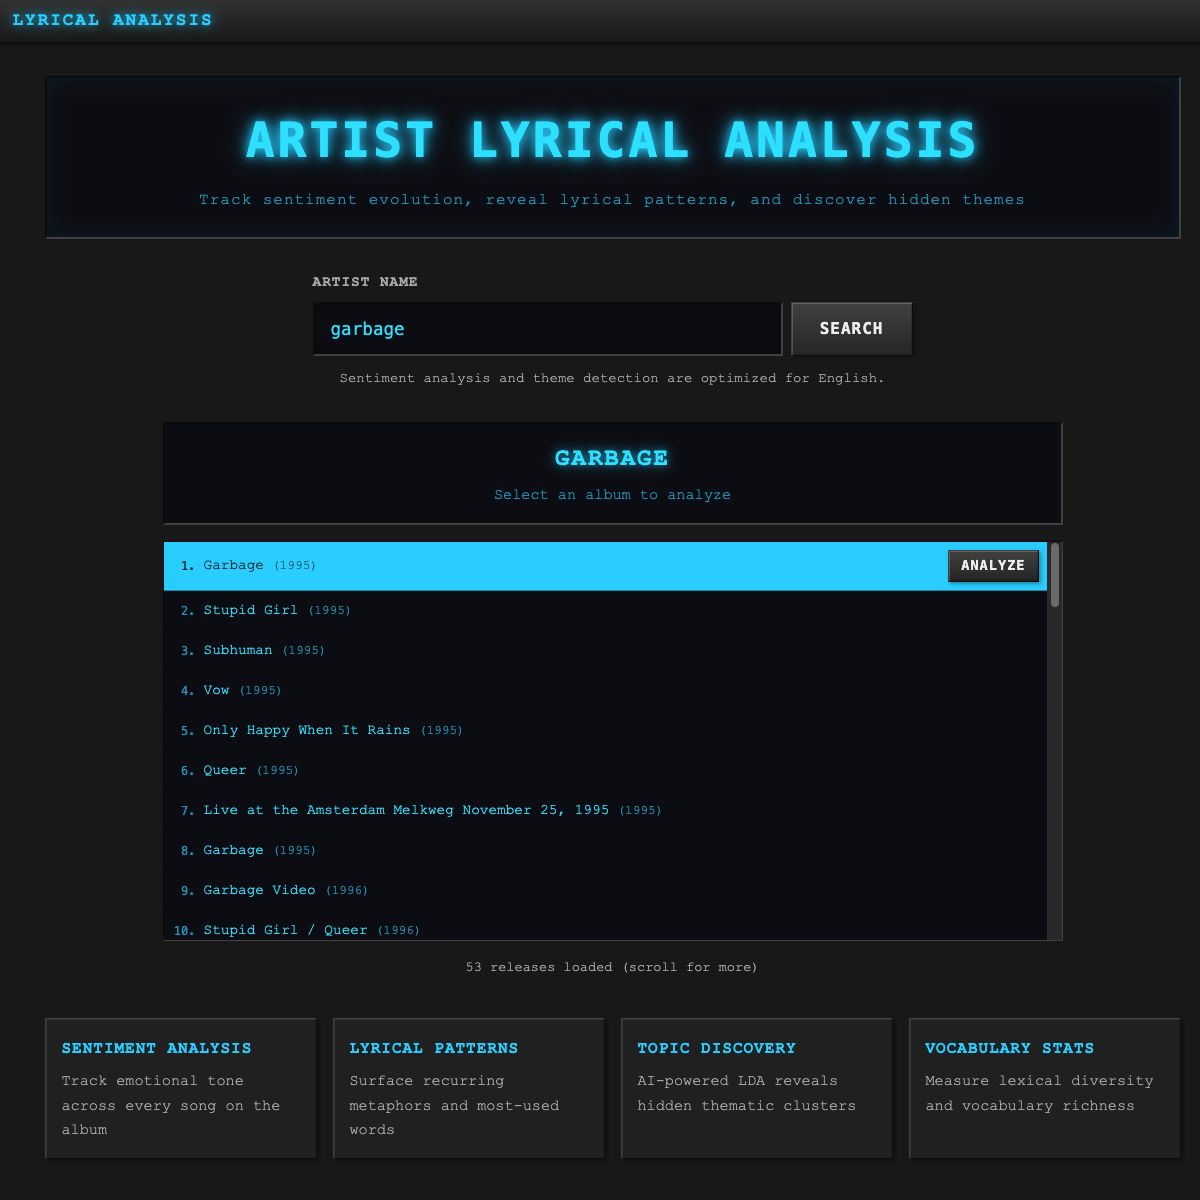
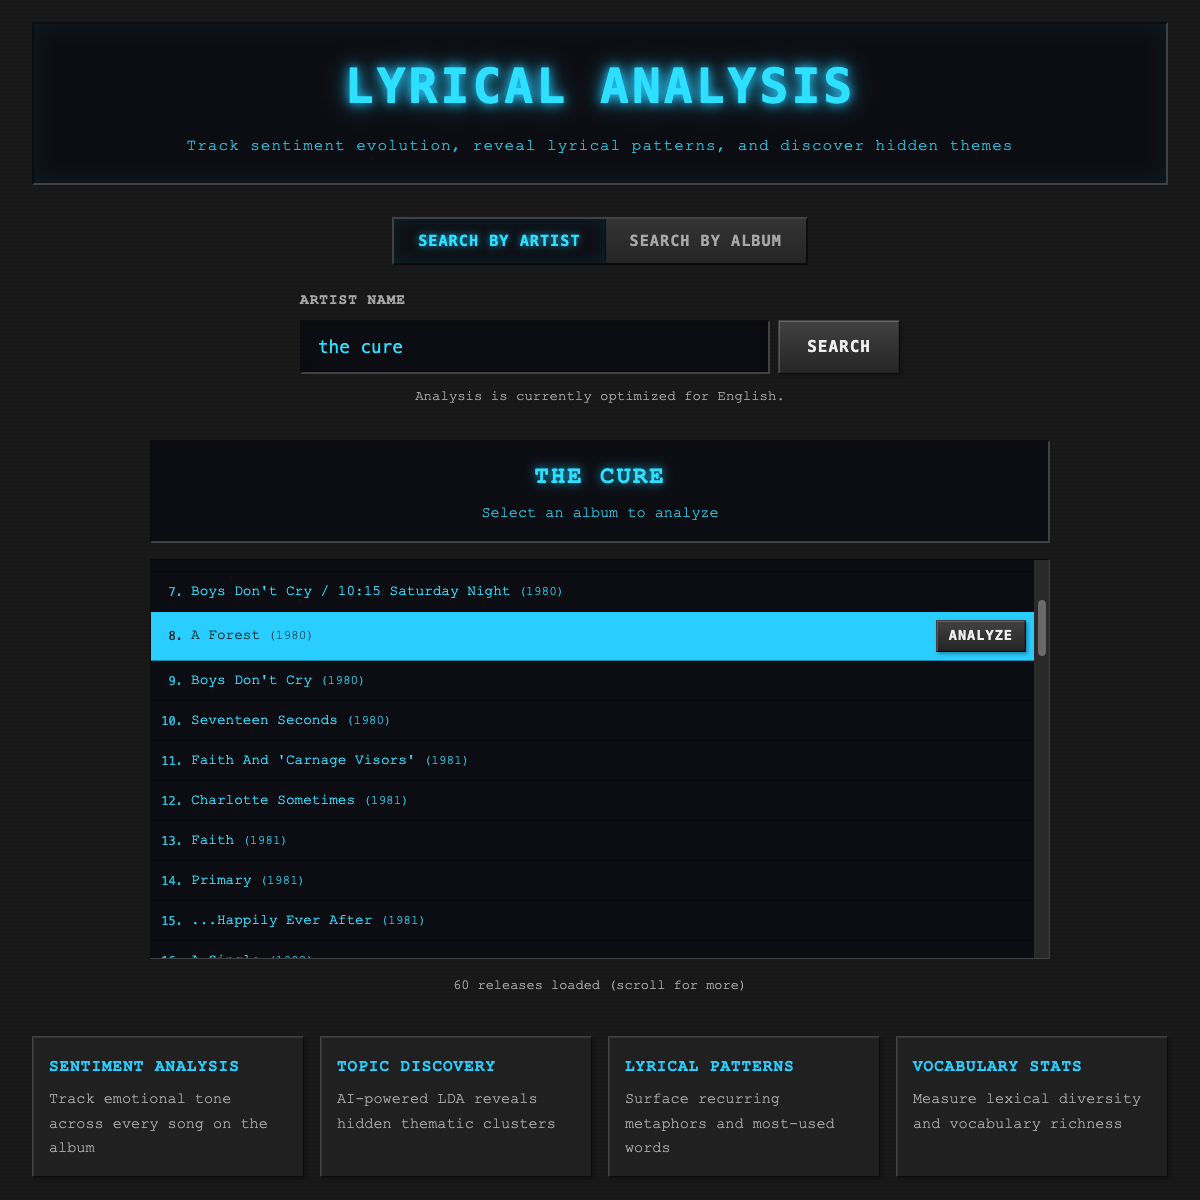
edit

diff --git a/content/projects/goth-dance-analyzer.md b/content/projects/goth-dance-analyzer.md
@@ -1,10 +1,10 @@
 ---
 title: "Goth Dance Analyzer"
 order: 6
-# images:
-#   - "/images/goth-dance-analyzer/skeleton_tracking.png"
-#   - "/images/goth-dance-analyzer/summary.png"
-#   - "/images/goth-dance-analyzer/detailed_metrics.png"
+images:
+  - "/images/goth-dance-analyzer/skeleton_tracking.png"
+  - "/images/goth-dance-analyzer/summary.png"
+  - "/images/goth-dance-analyzer/detailed_metrics.png"
 ---
 
 ## Goth Dance Analyzer
